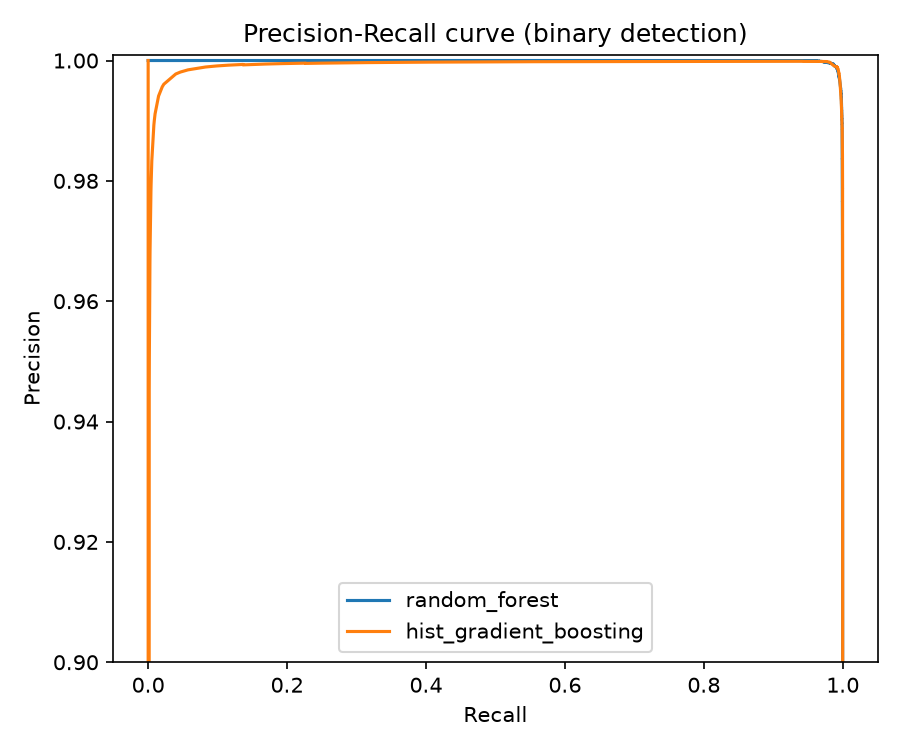
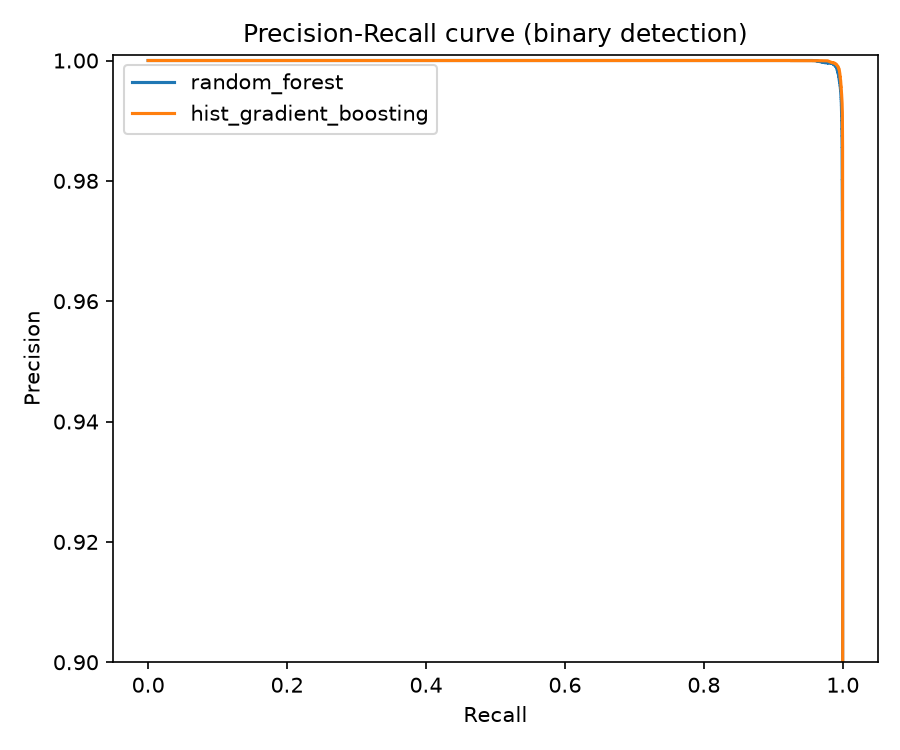
Choose alert thresholds on a validation split instead of the test set

Changed region(s): [[0.1244, 0.0613, 0.7156, 0.8893], [0.3733, 0.7667, 0.7156, 0.8587], [0.9022, 0.0613, 0.9333, 0.092]]

diff --git a/src/analyze.py b/src/analyze.py
@@ -1,4 +1,5 @@
-from pathlib import Path
+import json
+from pathlib import Path
 
 import matplotlib
 
@@ -8,6 +9,8 @@ import pandas as pd
 from sklearn.metrics import ConfusionMatrixDisplay, confusion_matrix, precision_recall_curve, roc_curve
 
 PREDS_PATH = Path("data/processed/test_predictions.parquet")
+VAL_PREDS_PATH = Path("data/processed/val_predictions.parquet")
+THRESHOLDS_PATH = Path("models/thresholds.json")
 FIG_DIR = Path("reports/figures")
 MODELS = ["random_forest", "hist_gradient_boosting"]
 THRESHOLDS = [0.05, 0.1, 0.2, 0.3, 0.5, 0.7, 0.9, 0.95, 0.99]
@@ -42,6 +45,9 @@ def main() -> None:
     FIG_DIR.mkdir(parents=True, exist_ok=True)
     df = pd.read_parquet(PREDS_PATH)
     y = df["is_attack"].to_numpy()
+    val = pd.read_parquet(VAL_PREDS_PATH)
+    y_val = val["is_attack"].to_numpy()
+    chosen = {}
 
     fig_pr, ax_pr = plt.subplots(figsize=(6, 5))
     fig_cm, axes = plt.subplots(1, len(MODELS), figsize=(11, 4.5))
@@ -54,8 +60,12 @@ def main() -> None:
         print(table.to_string(index=False))
         table.to_csv(FIG_DIR.parent / f"{name}_thresholds.csv", index=False)
 
-        thr, rec, fpr = best_recall_at_fpr(y, score)
-        print(f"Best recall with FPR <= 0.1%: {rec:.4f} at threshold {thr:.3f} (FPR {fpr:.5f})")
+        # Pick the threshold on the validation set, then report it once on the untouched test set
+        thr, val_rec, val_fpr = best_recall_at_fpr(y_val, val[f"{name}_score"].to_numpy())
+        tn, fp, fn, tp = confusion_matrix(y, (score >= thr).astype(int), labels=[0, 1]).ravel()
+        print(f"Threshold chosen on validation (FPR <= 0.1%): {thr:.3f} (val recall {val_rec:.4f}, val FPR {val_fpr:.5f})")
+        print(f"Same threshold on test: recall {tp / (tp + fn):.4f}, FPR {fp / (fp + tn):.5f}, missed {fn}, false alarms {fp}")
+        chosen[name] = thr
 
         p, r, _ = precision_recall_curve(y, score)
         ax_pr.plot(r, p, label=name)
@@ -81,7 +91,8 @@ def main() -> None:
 
     fig_cm.tight_layout()
     fig_cm.savefig(FIG_DIR / "confusion_matrices.png", dpi=150)
-    print(f"\nSaved figures to {FIG_DIR.resolve()}")
+    THRESHOLDS_PATH.write_text(json.dumps(chosen, indent=2))
+    print(f"\nSaved figures to {FIG_DIR.resolve()} and thresholds to {THRESHOLDS_PATH}")
 
 
 if __name__ == "__main__":

diff --git a/src/train.py b/src/train.py
@@ -1,4 +1,4 @@
-import json
+import json
 import time
 from pathlib import Path
 
@@ -7,10 +7,11 @@ from sklearn.ensemble import HistGradientBoostingClassifier, RandomForestClassif
 
 from src.data_loader import load_clean
 from src.evaluate import binary_metrics, recall_by_family
-from src.preprocess import RANDOM_STATE, get_feature_cols, split_data
+from src.preprocess import RANDOM_STATE, get_feature_cols, split_data, split_train_val
 
 MODELS_DIR = Path("models")
 PREDS_PATH = Path("data/processed/test_predictions.parquet")
+VAL_PREDS_PATH = Path("data/processed/val_predictions.parquet")
 
 
 def main() -> None:
@@ -21,9 +22,11 @@ def main() -> None:
     print(f"{len(df):,} flows | {len(features)} features")
 
     train_df, test_df = split_data(df)
-    X_train, y_train = train_df[features], train_df["is_attack"]
+    fit_df, val_df = split_train_val(train_df)
+    X_train, y_train = fit_df[features], fit_df["is_attack"]
+    X_val = val_df[features]
     X_test, y_test = test_df[features], test_df["is_attack"]
-    print(f"Train: {len(train_df):,} | Test: {len(test_df):,}")
+    print(f"Train: {len(fit_df):,} | Validation: {len(val_df):,} | Test: {len(test_df):,}")
 
     models = {
         "random_forest": RandomForestClassifier(
@@ -46,6 +49,10 @@ def main() -> None:
     preds["Label"] = preds["Label"].astype(str)
     preds["day"] = preds["day"].astype(str)
 
+    val_preds = val_df[["Label", "day", "is_attack"]].reset_index(drop=True)
+    val_preds["Label"] = val_preds["Label"].astype(str)
+    val_preds["day"] = val_preds["day"].astype(str)
+
     for name, model in models.items():
         print(f"\n--- Training {name} ---")
         t0 = time.time()
@@ -65,11 +72,13 @@ def main() -> None:
 
         preds[f"{name}_score"] = score
         preds[f"{name}_pred"] = pred
+        val_preds[f"{name}_score"] = model.predict_proba(X_val)[:, 1]
         joblib.dump(model, MODELS_DIR / f"{name}.joblib", compress=3)
 
     (MODELS_DIR / "metrics.json").write_text(json.dumps(results, indent=2))
     (MODELS_DIR / "features.json").write_text(json.dumps(features, indent=2))
     preds.to_parquet(PREDS_PATH)
+    val_preds.to_parquet(VAL_PREDS_PATH)
     print(f"\nSaved models, metrics and test predictions ({PREDS_PATH}).")
 
 

diff --git a/src/preprocess.py b/src/preprocess.py
@@ -1,8 +1,9 @@
-import pandas as pd
+import pandas as pd
 from sklearn.model_selection import train_test_split
 
 META_COLS = ["Label", "day", "is_attack"]
 RANDOM_STATE = 42
+VAL_FRACTION = 0.25  # share of the training part -> 52.5% train / 17.5% val / 30% test
 
 
 def get_feature_cols(df: pd.DataFrame) -> list[str]:
@@ -17,5 +18,15 @@ def split_data(df: pd.DataFrame, test_size: float = 0.3):
         df,
         test_size=test_size,
         stratify=df["Label"].astype(str),
+        random_state=RANDOM_STATE,
+    )
+
+
+def split_train_val(train_df: pd.DataFrame, val_size: float = VAL_FRACTION):
+    """Carve a validation set out of the training part. The test set is not touched."""
+    return train_test_split(
+        train_df,
+        test_size=val_size,
+        stratify=train_df["Label"].astype(str),
         random_state=RANDOM_STATE,
     )
